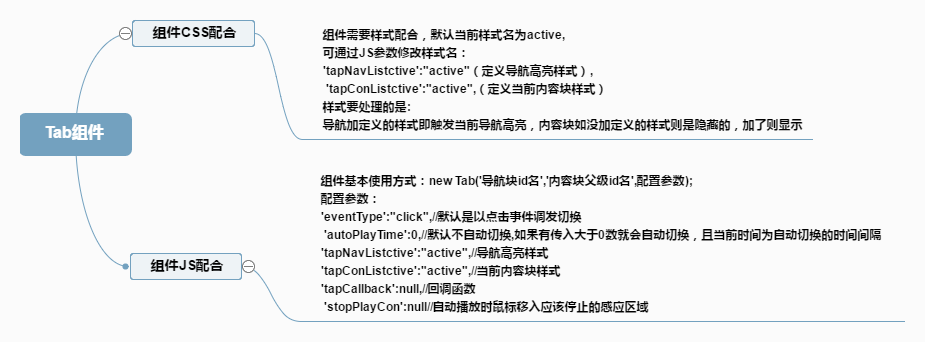
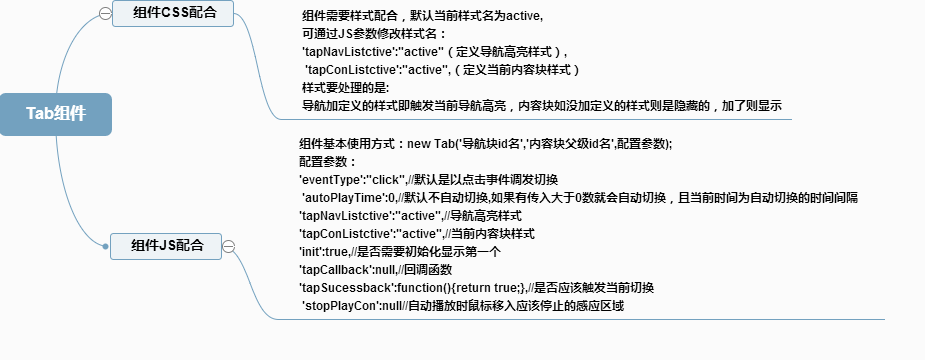
新增二个参数，一个参数用来判断是否需要做默认初始化，另一个参数可以根据外界的某一条件来判断是否应该触发切换

Changed region(s): [[0.0908, 0.0, 0.9686, 0.9357], [0.0, 0.2339, 0.1514, 0.614]]

diff --git a/Tab/Tab.js b/Tab/Tab.js
@@ -16,14 +16,18 @@ function Tab(navid,conid,option){
         'autoPlayTime':0,//默认不自动切换,如果有传入大于0数就会自动切换，且当前时间为自动切换的时间间隔
         'tapNavListctive':"active",//导航高亮样式
         'tapConListctive':"active",//当前内容块样式
+        'init':true,//是否需要初始化显示第一个
         'tapCallback':null,//回调函数
+        'tapSucessback':function(){return true;},//是否应该触发当前切换
         'stopPlayCon':null//自动播放时鼠标移入应该停止的感应区域
     }
     $.extend(this.setting,option);
     if(this.setting.stopPlayCon!=null){
       this.tapStopCon=this.setting.stopPlayCon;
     }
-    this.initfn();
+    if(this.setting.init){
+    	this.initfn();	
+    }
 }
 //初始化方法
 Tab.prototype.initfn=function(){
@@ -37,12 +41,14 @@ Tab.prototype.initfn=function(){
     //绑定事件，触发选项卡效果
     this.tapNavList.on(this.setting.eventType,function(){
         var That=this;
-        clearTimeout(This.delayTimer);
-        This.delayTimer=setTimeout(function(){
-            This.nowIndex=$(That).index();
-            This.tapPlay();//执行切换
-            clearTimeout(This.delayTimer);
-        },bz?200:0)
+        if(this.setting.tapSuccessBack){
+        	clearTimeout(This.delayTimer);
+	        This.delayTimer=setTimeout(function(){
+	            This.nowIndex=$(That).index();
+	            This.tapPlay();//执行切换
+	            clearTimeout(This.delayTimer);
+	        },bz?200:0)
+        }
     });
     //如果传入的time参数大于0就会执行自动切换
     if(this.setting.autoPlayTime>0){
